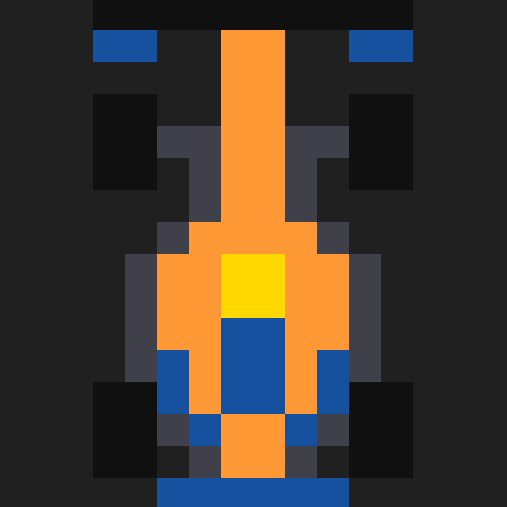
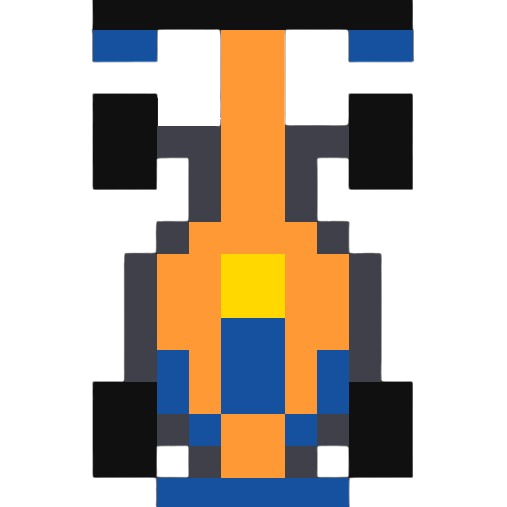
привёл текстуры скинов в норму, поправил кнопки в меню и добавил кнопку очистки рекордов в настройках

diff --git a/core/src/com/mygdx/game/OptionScreen.java b/core/src/com/mygdx/game/OptionScreen.java
@@ -23,6 +23,8 @@ public class OptionScreen implements Screen, InputProcessor {
     private Button buttonSoundMinus;
 
     private Button buttonBack;
+    private Button clearRecordsButton;
+
 
     private int oldWindowWidth = 1280;
     private int oldWindowHeight = 720;
@@ -54,6 +56,8 @@ public class OptionScreen implements Screen, InputProcessor {
         buttonSoundMinus = new Button(GameResources.minusButton,0,0,0,0);
 
         buttonBack = new Button(GameResources.backButton,0,0,0,0);
+        clearRecordsButton = new Button(GameResources.clearRecords, 0, 0, 0, 0);
+
     }
 
     @Override
@@ -80,13 +84,13 @@ public class OptionScreen implements Screen, InputProcessor {
         float mouseY = mousePos.y;
 
         fullscreenButton.update(mouseX, mouseY);
+        clearRecordsButton.update(mouseX, mouseY);
         buttonMusicPlus.update(mouseX, mouseY);
         buttonMusicMinus.update(mouseX, mouseY);
 
         buttonSoundPlus.update(mouseX, mouseY);
         buttonSoundMinus.update(mouseX, mouseY);
 
-        buttonBack.update(mouseX, mouseY);
 
         game.batch.setProjectionMatrix(game.uiCamera.combined);
         game.batch.begin();
@@ -162,6 +166,8 @@ public class OptionScreen implements Screen, InputProcessor {
         buttonSoundMinus.draw(game.batch);
         buttonSoundPlus.draw(game.batch);
 
+        clearRecordsButton.draw(game.batch);
+
         buttonBack.draw(game.batch);
 
         game.batch.end();
@@ -178,9 +184,19 @@ public class OptionScreen implements Screen, InputProcessor {
 
         fullscreenButton.setPosition(
                 centerX - fullscreenWidth / 2f,
-                h * 0.45f,
+                h * 0.52f,
                 fullscreenWidth,
                 fullscreenHeight
+        );
+
+        float clearRecordsWidth = w * 0.33f;
+        float clearRecordsHeight = h * 0.31f;
+
+        clearRecordsButton.setPosition(
+                centerX - clearRecordsWidth / 2f,
+                h * 0.445f,
+                clearRecordsWidth,
+                clearRecordsHeight
         );
 
         // VOLUME PANEL
@@ -257,6 +273,12 @@ public class OptionScreen implements Screen, InputProcessor {
 
         if (fullscreenButton.isTapped(x, y)) {
             applyFullscreenToggle();
+            return true;
+        }
+
+        // ===== CLEAR RECORDS =====
+        if (clearRecordsButton.isTapped(x, y)) {
+            // Пока что ничего не происходит
             return true;
         }
 

diff --git a/core/src/com/mygdx/game/GameResources.java b/core/src/com/mygdx/game/GameResources.java
@@ -41,6 +41,7 @@ public class GameResources {
 
     public static Texture skinsButton;
     public static Texture checkmark;
+    public static Texture  clearRecords;
 
     public static void loadTextures() {
 
@@ -87,6 +88,7 @@ public class GameResources {
         restartButton = new Texture("Restart.png");
         menuPauseButton = new Texture("Menu.png");
         checkmark = new Texture("stars/checkmark.png");
+        clearRecords = new Texture("ClearRecords.png/");
     }
 
     public static final String GAS_MUSIC_PATH = "sounds/gas.mp3";
@@ -130,5 +132,6 @@ public class GameResources {
         if (restartButton != null) restartButton.dispose();
         if (menuPauseButton != null) menuPauseButton.dispose();
         if (checkmark != null) checkmark.dispose();
+        if (clearRecords != null) clearRecords.dispose();
     }
 }

diff --git a/core/src/com/mygdx/game/MenuScreen.java b/core/src/com/mygdx/game/MenuScreen.java
@@ -45,8 +45,8 @@ public class MenuScreen implements Screen, InputProcessor {
         float bh = h * 0.4f;
         float cx = w / 2f - bw / 2f;
 
-        buttonStart.setPosition(cx, h * 0.54f, bw, bh);
-        buttonOptions.setPosition(cx, h * 0.27f, bw, bh);
+        buttonStart.setPosition(cx, h * 0.48f, bw, bh);
+        buttonOptions.setPosition(cx, h * 0.25f, bw, bh);
         buttonQuit.setPosition(cx, h * 0.01f, bw, bh);
 
         // Кнопка скинов - больше по высоте и левее
